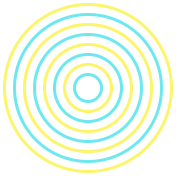
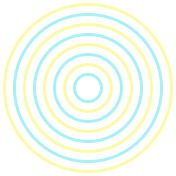
Reduced opacity to reduce visual interactions with controls

Changed region(s): [[0.0, 0.0, 0.9943, 0.9943]]

diff --git a/docroot/js/app.js b/docroot/js/app.js
@@ -498,6 +498,24 @@ app = (function () {
         //          "lastheard":"2023-02-14T18:42:48Z",
         //          "common": 8645, "dfltrcv": 986, "dfltsnd": 0}]};
         const albdat = {
+            "The Future Sound of London":{
+                "Teachings From The Electronic Brain":{
+                    kwds:"Social,Flow", songs:[
+                        "Papua New Guinea [12_ Version]",
+                        "Max",
+                        "Everyone In The World Is Doing Something Without Me",
+                        "My Kingdom",
+                        "Smokin' Japanese Babe",
+                        "Antique Toy",
+                        "Lifeforms [Radio Edit]",
+                        "Yage",
+                        "Expander (Remix)",
+                        "Glass",
+                        "Far-Out Son Of Lung And The Ramnlings Of A Madman",
+                        "The Lovers",
+                        "Moutain Goat",
+                        "Cascade [Shortform]",
+                        "We Have Explosive [7_ Edit]"]}},
             "Brian Eno":{
                 "Ambient 1: Music for Airports":{
                     kwds:"Social,Flow,Ambient", songs:[
@@ -529,7 +547,7 @@ app = (function () {
                         "Morgenspaziergang"]}},
             "Talking Heads":{
                 "Remain In Light":{
-                    kwds:"Social,Flow", songs:[
+                    kwds:"Social", songs:[
                         "Born Under Punches (The Heat Goes On)",
                         "Crosseyed And Painless",
                         "The Great Curve",
@@ -540,7 +558,7 @@ app = (function () {
                         "The Overload"]}},
             "Joan Armatrading":{
                 "Walk Under Ladders":{
-                    kwds:"Social,Flow", songs:[
+                    kwds:"Social", songs:[
                         "I'm Lucky",
                         "When I Get It Right",
                         "Romancers",
@@ -560,9 +578,34 @@ app = (function () {
                         "Star People",
                         "U'n'I",
                         "Star On Cicely"]}},
+            "Jon Hassell":{
+                "Power Spot":{
+                    kwds:"Social,Flow,Ambient", songs:[
+                        "Power Spot",
+                        "Passage D.E",
+                        "Solaire",
+                        "Miracle Steps",
+                        "Wing Melodies",
+                        "The Elephant And The Orchid",
+                        "Air"]}},
+            "Nightmares on Wax":{
+                "Carboot Soul":{
+                    kwds:"Social,Flow,Ambient", songs:[
+                        "Les Nuits",
+                        "Morse",
+                        "Ethnic Majority",
+                        "Finer",
+                        "Ease Jimi",
+                        "Argha Noah",
+                        "Fire In The Middle",
+                        "Survival",
+                        "Capumcap",
+                        "Les Nuits (DJ Spinna Mix)",
+                        "Finer (Paul Nice Mix)",
+                        "Burn Me Slo (Feat O.C)"]}},
             "Ozomatli":{
                 "Street Signs":{
-                    kwds:"Social,Flow", songs:[
+                    kwds:"Social", songs:[
                         "Believe",
                         "Love And Hope",
                         "Street Signs",
@@ -630,7 +673,7 @@ app = (function () {
                         "The Morning Fog"]}},
             "Deep Forest":{
                 "Deep Forest":{
-                    kwds:"Social,Flow", songs:[
+                    kwds:"Social,Flow,Ambient", songs:[
                         "Deep Forest",
                         "Sweet Lullaby",
                         "Hunting",
@@ -707,10 +750,12 @@ app = (function () {
             if(ratedSongs) {
                 songdat[path].al = 40;
                 songdat[path].el = 70;
+                if(kwds.csvcontains("Ambient")) {
+                    songdat[path].el = 25; }
                 songdat[path].rv = 8;
                 songdat[path].kws = kwds;
                 songdat[path].fq = "B";  //light up tuning fork
-                songdat[path].nt = "Placeholder comment to light indicator"; } }
+                songdat[path].nt = ""; } }
         function getSongData () {
             if(songdat) { return songdat; }
             jt.log("building fake song data, ratedSongs: " + ratedSongs);

diff --git a/docroot/js/amd/deck.js b/docroot/js/amd/deck.js
@@ -1264,7 +1264,7 @@ app.deck = (function () {
             {mgr:"srch", name:"Search", img:"search.png"}];
         const gsi = {  //general state information
             datr:"init",  //data readiness "ready"
-            dfltSeqMgrName:"alb"};
+            dfltSeqMgrName:"csa"};
         function validSeqMgrName (name) {
             return (name === "csa" || name === "alb"); }
         function ssmn () {
